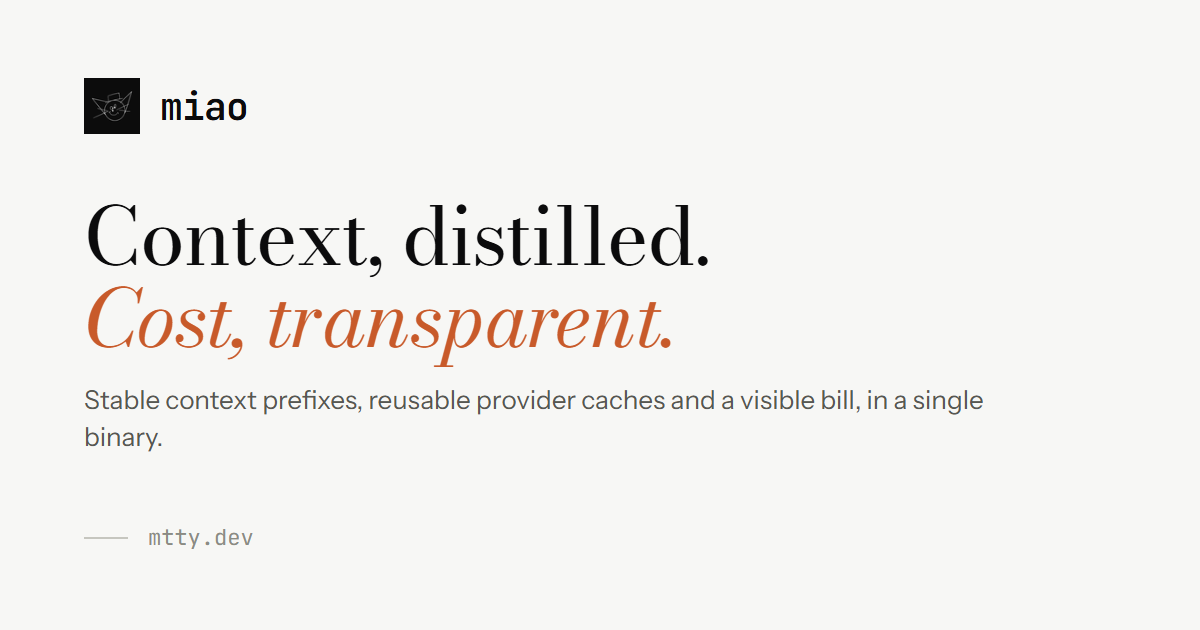
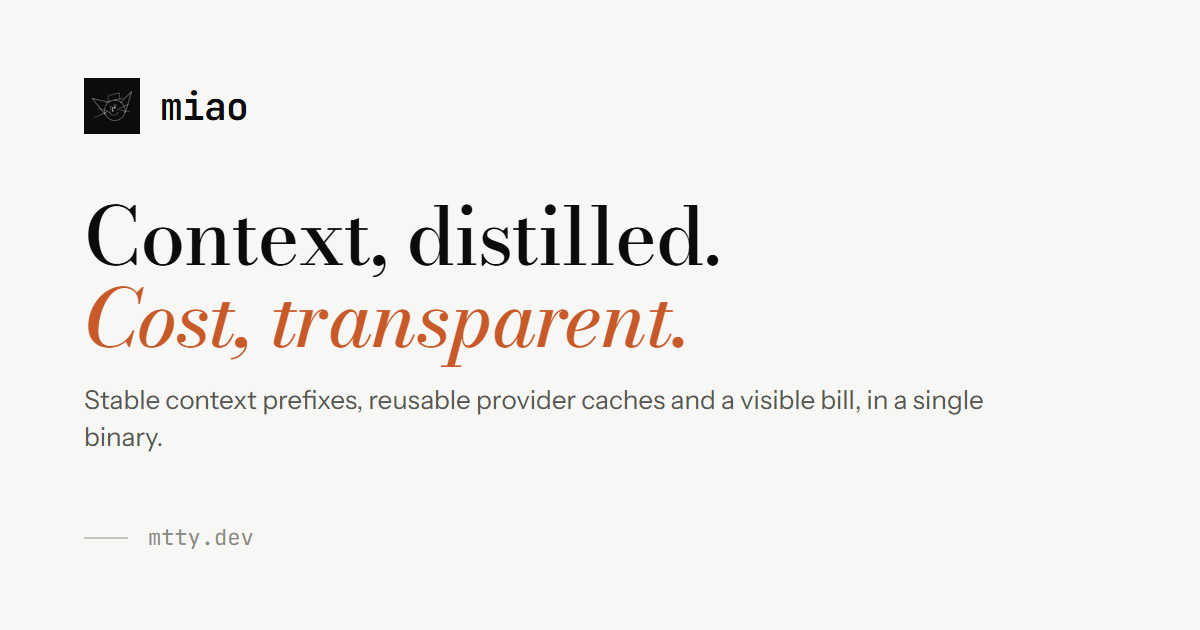
feat(site): strengthen typography and rewrite the footer motto
Replace the colloquial footer line with a formal brand statement, set it in display type at a larger size and weight, and raise the site-wide type scale: 17px body, 500 display weight, larger headings, labels, buttons and navigation. Regenerate the social cards with the heavier display weight.

Changed region(s): [[0.0925, 0.4825, 0.5858, 0.6032], [0.1233, 0.3016, 0.6167, 0.4524]]

diff --git a/src/styles/marketing.css b/src/styles/marketing.css
@@ -27,7 +27,8 @@ body {
   background: var(--bg);
   color: var(--fg);
   font-family: var(--font-sans);
-  font-size: 16px;
+  font-size: 17px;
+  font-weight: 450;
   line-height: 1.65;
   -webkit-font-smoothing: antialiased;
   text-rendering: optimizeLegibility;
@@ -95,7 +96,7 @@ pre {
 .display {
   margin: 0;
   font-family: var(--font-display);
-  font-weight: 400;
+  font-weight: 500;
   line-height: 1;
   letter-spacing: -0.012em;
   text-wrap: balance;
@@ -165,8 +166,8 @@ pre {
   margin: 0;
   max-width: 60ch;
   color: var(--fg-muted);
-  font-size: clamp(1.02rem, 1.35vw, 1.14rem);
-  line-height: 1.7;
+  font-size: clamp(1.08rem, 1.45vw, 1.22rem);
+  line-height: 1.72;
 }
 
 .lede strong {
@@ -182,8 +183,8 @@ pre {
   margin: 0 0 26px;
   color: var(--fg-faint);
   font-family: var(--font-sans);
-  font-size: 0.67rem;
-  font-weight: 500;
+  font-size: 0.7rem;
+  font-weight: 550;
   letter-spacing: 0.2em;
   line-height: 1;
   text-transform: uppercase;
@@ -230,7 +231,7 @@ pre {
 
 .fine {
   color: var(--fg-faint);
-  font-size: 0.82rem;
+  font-size: 0.87rem;
   line-height: 1.65;
 }
 
@@ -264,15 +265,15 @@ kbd {
   align-items: center;
   justify-content: center;
   gap: 12px;
-  height: 48px;
-  padding: 0 22px;
+  height: 50px;
+  padding: 0 24px;
   border: 1px solid var(--border-strong);
   border-radius: 0;
   background: transparent;
   color: var(--fg);
   font-family: var(--font-sans);
-  font-size: 0.7rem;
-  font-weight: 550;
+  font-size: 0.74rem;
+  font-weight: 600;
   letter-spacing: 0.14em;
   text-decoration: none;
   text-transform: uppercase;
@@ -315,8 +316,8 @@ kbd {
   border-bottom: 1px solid transparent;
   color: var(--fg);
   font-family: var(--font-sans);
-  font-size: 0.7rem;
-  font-weight: 550;
+  font-size: 0.74rem;
+  font-weight: 600;
   letter-spacing: 0.14em;
   text-decoration: none;
   text-transform: uppercase;
@@ -369,7 +370,7 @@ kbd {
   margin-top: 16px;
   color: var(--fg-faint);
   font-family: var(--font-sans);
-  font-size: 0.66rem;
+  font-size: 0.7rem;
   letter-spacing: 0.16em;
   text-transform: uppercase;
 }
@@ -390,7 +391,7 @@ kbd {
   border-radius: 0;
   background: #0b0b0d;
   color: #ececec;
-  font-size: 0.82rem;
+  font-size: 0.87rem;
   line-height: 1.8;
 }
 
@@ -419,7 +420,7 @@ kbd {
 .spec {
   width: 100%;
   border-collapse: collapse;
-  font-size: 0.94rem;
+  font-size: 0.97rem;
 }
 
 .spec th,
@@ -451,8 +452,8 @@ kbd {
   border-top: 0;
   color: var(--fg-faint);
   font-family: var(--font-sans);
-  font-size: 0.64rem;
-  font-weight: 500;
+  font-size: 0.68rem;
+  font-weight: 550;
   letter-spacing: 0.16em;
   text-transform: uppercase;
 }
@@ -464,8 +465,8 @@ kbd {
   border-radius: 0;
   color: var(--fg-muted);
   font-family: var(--font-sans);
-  font-size: 0.64rem;
-  font-weight: 500;
+  font-size: 0.68rem;
+  font-weight: 550;
   letter-spacing: 0.12em;
   text-transform: uppercase;
   white-space: nowrap;
@@ -566,7 +567,7 @@ kbd {
   }
 
   body {
-    font-size: 15.5px;
+    font-size: 16.5px;
   }
 
   .section {
@@ -613,7 +614,7 @@ kbd {
 .media-original {
   color: var(--fg-faint);
   font-family: var(--font-sans);
-  font-size: 0.64rem;
+  font-size: 0.68rem;
   letter-spacing: 0.14em;
   text-decoration: none;
   text-transform: uppercase;

diff --git a/scripts/og.ts b/scripts/og.ts
@@ -206,7 +206,7 @@ body {
 .headline {
   font-family: var(--font-display);
   font-size: ${card.lang === "zh" ? 66 : 80}px;
-  font-weight: 400;
+  font-weight: 500;
   line-height: ${card.lang === "zh" ? 1.2 : 1.02};
   letter-spacing: ${card.lang === "zh" ? "0" : "-0.015em"};
 }
